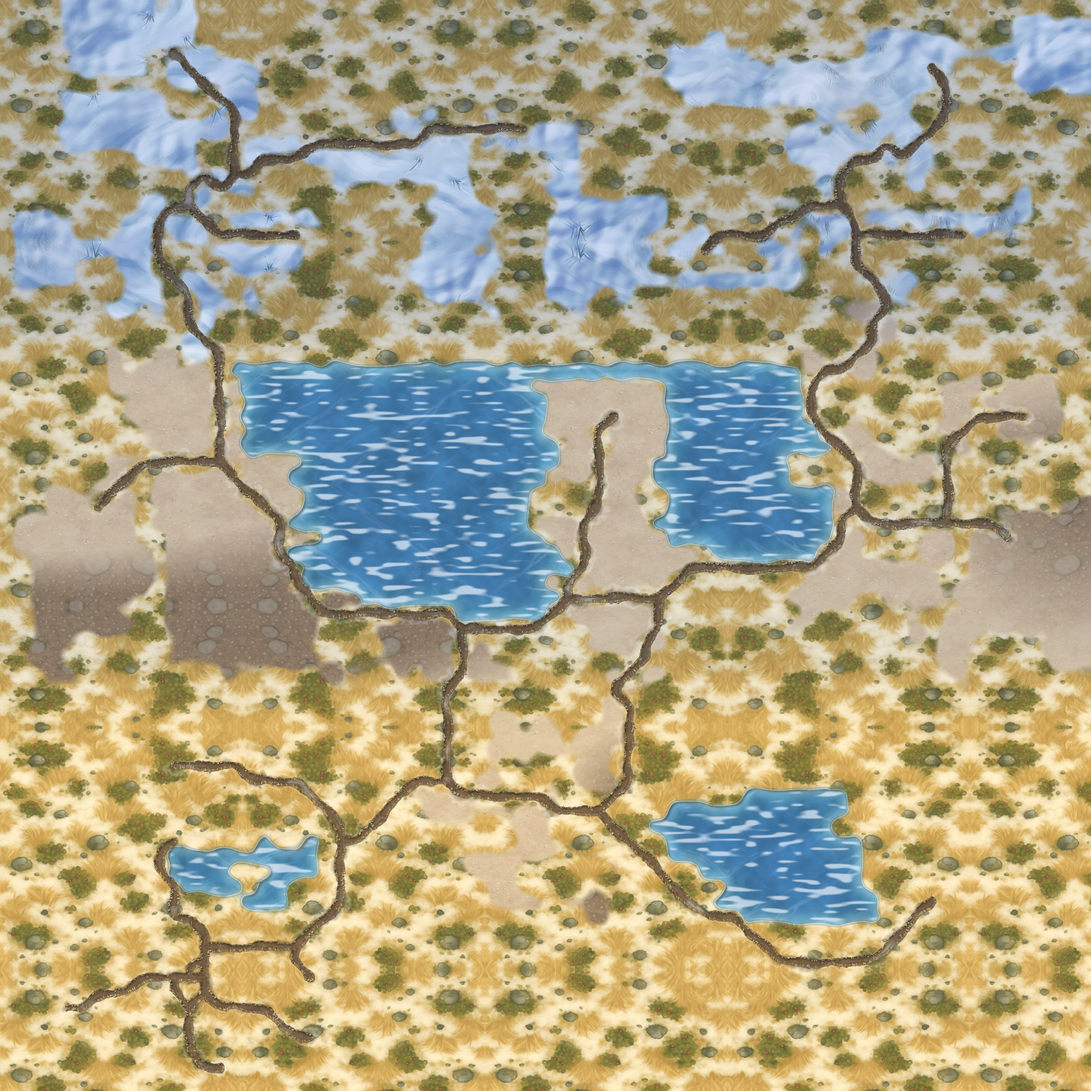
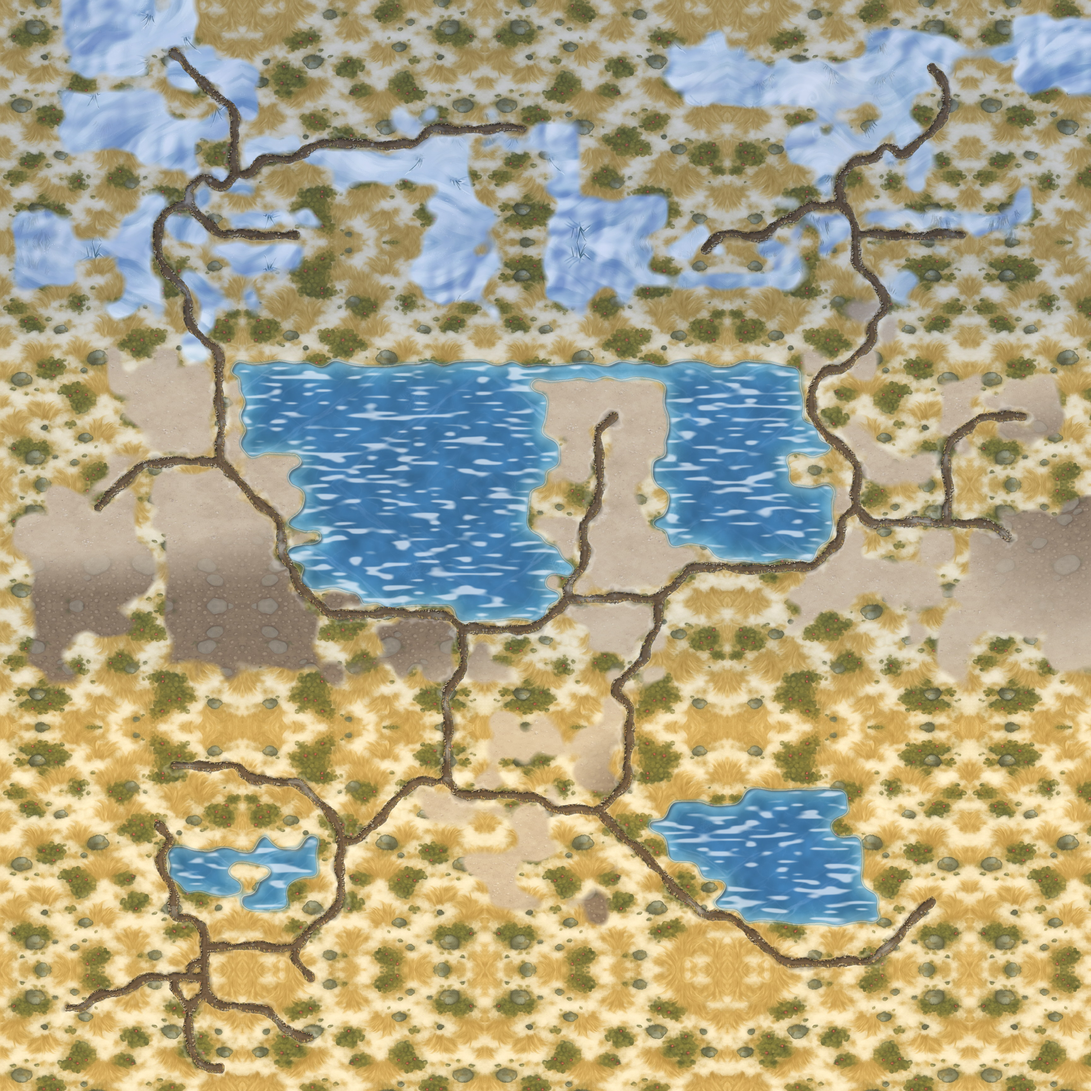
Twierdza: runda 8 planszy — stos przy stawie zamkowym, droga domknięta, węzeł tundry z jedną decyzją
Skrzynia (41,43) i kupka kul (42,36) na polanę przy stawie (8–9,54)
po losowaniu (losowanie jak w rundzie 7), droga do (10,54), źródło
(39,37) → (36,35). Węzeł (38–45,36–43) 7 → 4 obiekty, okno nad nim
21 → 19. 183 obiekty co 11,3 pola, pasy 19/40/47/46/31, bez bitwy
27 %. probe-misja OK.

Claude-Session: https://claude.ai/code/session_01BGiaZhgTwDgLbUxsH7vpi6

diff --git a/src/data/plansza-teren-twierdza.ts b/src/data/plansza-teren-twierdza.ts
@@ -63,7 +63,7 @@ export const TEREN = [
   'TTTTT...TTTTTTT.====.......===.jjTTTTTjjj=........TTTTTTTTTTTT...TTTTTTT',
   'TTTTTTTTTTTTTTTTTTTT=.....=jjj======j...=........~~~~~~~.TTTTT....TTTT..',
   'TTTT.................=...=..jjjjjjjj====....~~~~~~~~~~~~.TTTTTTT........',
-  'TTT...................=.=....TTT..jj....=..~~~~~~~~~~~~.................',
+  'TTT.......=...........=.=....TTT..jj....=..~~~~~~~~~~~~.................',
   'TTT........=.....~..~.==.....TTT..jjj....=..~~~~~~~~~~~~~...####........',
   'TTT..####.=~~~~~~~~~~.=..T....jjjjjj..TTTT=.~~~~~~~~~~~~~...#########...',
   'TTT..#####=~~~~TTT~~~.=..TTTT..jjj....TTj..=..~~~~~~~~~~~...#########...',
@@ -221,9 +221,8 @@ export const ROZSTAWIENIE: Array<{
   { x: 70, y: 39, rodzaj: 'budynek', strefa: 'pogranicze', budynek: 'portal' },
   { x: 59, y: 37, rodzaj: 'budynek', strefa: 'pogranicze', budynek: 'arena' },
   { x: 54, y: 38, rodzaj: 'budynek', strefa: 'pogranicze', budynek: 'ognisko' },
-  { x: 42, y: 36, rodzaj: 'surowiec', strefa: 'pogranicze', surowiec: 'pokeball' },
   { x: 42, y: 38, rodzaj: 'skrzynia', strefa: 'pogranicze' },
-  { x: 39, y: 37, rodzaj: 'budynek', strefa: 'pogranicze', budynek: 'zrodlo' },
+  { x: 36, y: 35, rodzaj: 'budynek', strefa: 'pogranicze', budynek: 'zrodlo' },
   { x: 59, y: 31, rodzaj: 'budynek', strefa: 'pogranicze', budynek: 'chatka' },
   { x: 26, y: 43, rodzaj: 'kopalnia', strefa: 'pogranicze', surowiec: 'odlamek' },
   { x: 15, y: 34, rodzaj: 'budynek', strefa: 'pogranicze', budynek: 'wiatrak' },
@@ -235,7 +234,6 @@ export const ROZSTAWIENIE: Array<{
   { x: 31, y: 42, rodzaj: 'skrzynia', strefa: 'pogranicze' },
   { x: 31, y: 43, rodzaj: 'surowiec', strefa: 'pogranicze', surowiec: 'jagoda' },
   { x: 40, y: 42, rodzaj: 'surowiec', strefa: 'pogranicze', surowiec: 'pokeball' },
-  { x: 41, y: 43, rodzaj: 'skrzynia', strefa: 'pogranicze' },
   { x: 68, y: 26, rodzaj: 'budynek', strefa: 'pogranicze', budynek: 'ognisko' },
   { x: 68, y: 28, rodzaj: 'surowiec', strefa: 'pogranicze', surowiec: 'odlamek' },
   { x: 69, y: 25, rodzaj: 'skrzynia', strefa: 'pogranicze' },
@@ -312,6 +310,8 @@ export const ROZSTAWIENIE: Array<{
   { x: 49, y: 66, rodzaj: 'budynek', strefa: 'dom', budynek: 'zrodlo' },
   { x: 54, y: 69, rodzaj: 'budynek', strefa: 'dom', budynek: 'woz' },
   { x: 71, y: 62, rodzaj: 'budynek', strefa: 'dom', budynek: 'chatka' },
+  { x: 8, y: 54, rodzaj: 'skrzynia', strefa: 'dom' },
+  { x: 9, y: 54, rodzaj: 'surowiec', strefa: 'dom', surowiec: 'pokeball' },
 ];
 
 /** Ustawienia misji na tej planszy — patrz `UstawieniaPlanszy` w `src/data/mapy.ts`. */

diff --git a/tools/mapy/twierdza.py b/tools/mapy/twierdza.py
@@ -857,6 +857,18 @@ DOLINA = [
     ([(47, 50), (47, 51)], ('surowiec', 'jagoda')),
 ]
 
+#: Runda 8 pętli (D1/F1): polana na zachód od stawu zamkowego (3–20,
+#: 53–55) była pusta, a droga brzegiem stawu urywała się na (11,55) — stos
+#: na jej końcu: skrzynia i kupka kul z węzła tundry (41,43)/(42,36).
+#: Skrzynię (41,43) zdejmuje się dopiero PO losowaniu: zdjęta wcześniej
+#: zmieniała okna nad przełęczami i losowe budowle doliny przetasowywały się
+#: (wóz (54,69) → źródło (70,68), pas 3 → 5, garb pasów znikał).
+PO_LOSOWANIU_ZDEJMIJ = [(41, 43)]
+DOLINA_PO_LOSOWANIU = [
+    ([(8, 54), (8, 53), (7, 54)], ('skrzynia', None)),
+    ([(9, 54), (9, 53), (9, 55)], ('surowiec', 'pokeball')),
+]
+
 #: Pętla 2026-10 (E5): brama zakątków SE i NE doliny. Trakt do kamiennej
 #: wieży wciska się między jezioro SE (47–57, 50–60) a pas boru (44–52,
 #: 61–63) przejściem szerokim na jedno pole (49,61)–(50,62); straż stoi na
@@ -917,11 +929,15 @@ TUNDRA = [
     ([(54, 38), (53, 38)], ('budynek', 'ognisko')),
     # Trakt wschodni (56,33 → 57,21) i zachodni brzeg jeziora-zapory:
     # skrzynia i kupki przy drodze, chatka na rozstajach odnogi.
-    ([(42, 36), (41, 36)], ('surowiec', 'pokeball')),
+    # (Runda 8 pętli, G1/F1: kupka kul (42,36) → polana przy stawie
+    # zamkowym (9,54) — węzeł tundry (38–45, 36–43) miał 7 rzeczy.)
     # Runda 5 pętli (E2): stos przed brodem od zachodu — środkowy pas
     # odległości, na luźnym ekranie (okna 21 × 18 nad brodem: 9–11).
     ([(42, 38), (41, 38)], ('skrzynia', None)),
-    ([(39, 37), (38, 37), (39, 38)], ('budynek', 'zrodlo')),
+    # Runda 8 pętli (G1): źródło z (39,37) za drogę (38,35), na zachodni
+    # brzeg wyspy — przy brodzie (45,37) zostaje jedna decyzja: skrzynia
+    # (42,38) i kopalnia (40,41).
+    ([(36, 35), (36, 34), (37, 34)], ('budynek', 'zrodlo')),
 
     # (Runda 6 pętli, G1: bez wiatraka (36,34) przed brodem.)
     ([(59, 31), (60, 31)], ('budynek', 'chatka')),
@@ -952,6 +968,9 @@ TUNDRA = [
     ([(31, 42), (31, 43)], ('skrzynia', None)),
     ([(31, 43), (29, 43)], ('surowiec', 'jagoda')),
     ([(40, 42), (39, 42)], ('surowiec', 'pokeball')),
+    # (Runda 8 pętli, G1/F1: skrzynia (41,43) stoi tu tylko na czas
+    # losowania i po nim idzie na polanę przy stawie zamkowym (8,54) —
+    # `PO_LOSOWANIU_ZDEJMIJ`.)
     ([(41, 43), (43, 42)], ('skrzynia', None)),
     # Polana za ranczem (x 66–69, y 25–28), koniec ślepej odnogi pod
     # średnią strażą w wejściu: ognisko, stos i skrzynia (z pasa za bramami
@@ -1470,6 +1489,12 @@ def rozstaw(g):
         'gniazdo', 'zrodlo', 'wiatrak', 'ognisko', 'woz', 'chatka',
     ])
     rozloz_nadmiar(g)
+    for pole in PO_LOSOWANIU_ZDEJMIJ:
+        wpis = next(co for q, co in g.obiekty if q == pole)
+        g.obiekty.remove((pole, wpis))
+        g.zajete = [q for q in g.zajete if q != pole]
+        g.blokada.difference_update([pole] + g.pola_bryly(wpis[0], wpis[1], pole))
+    postaw_recznie(g, DOLINA_PO_LOSOWANIU)
 
     # Runda 4 (HotA): spichlerz jagód (20, 60) i kopalnia odłamków (23, 60)
     # mają bryłę w rzędzie nad wejściem — w stawie. Na ekranie stały na
@@ -1520,6 +1545,7 @@ def rozstaw(g):
                  # do obozu łowców w zaułku.
                  (9, 64), (8, 65), (7, 65), (6, 65), (5, 66), (4, 66),
                  (11, 59), (11, 58), (10, 57), (10, 56), (11, 55),
+                 (10, 54),   # runda 8 pętli: do stosu (8–9, 54)
                  (12, 68), (12, 69), (13, 70), (14, 70),
                  # Runda 12: z zatoczki na polanę w borze.
                  (19, 68), (20, 68)]:

diff --git a/STAN.md b/STAN.md
@@ -1891,6 +1891,35 @@ w `tools/mapy/twierdza.py`:
   wroga ubrały pas 2, a wolne okna pasa 3 (międzyjezierze, wschodnia tundra)
   są pełne. Pogranicze tylko o 2 bogatsze od domu.
 
+Krytyk rundy 8 (`tools/blind/r8-twierdza-werdykt.md`): wygrana ślepo,
+27 TAK / 3 CZĘŚCIOWO / 0 NIE (D1 droga urwana na (11,55), F1 pusta polana
+przy stawie zamkowym (3–20,53–55), G1 węzeł tundry (38–45,36–43) 7 rzeczy,
+okno (27–47,33–50) 21). Runda 8 — chirurgiczna, tylko trzy zmiany
+z werdyktu, zmiany tylko w `tools/mapy/twierdza.py`:
+
+- **F1/G1**: skrzynia (41,43) → (8,54), kupka kul (42,36) → (9,54)
+  (`DOLINA_PO_LOSOWANIU`, strefa dom) — stos na polanie przy stawie
+  zamkowym. Skrzynia (41,43) stoi w `TUNDRA` do końca losowania i dopiero
+  potem jest zdejmowana (`PO_LOSOWANIU_ZDEJMIJ`): zdjęta wcześniej zmieniała
+  okna nad przełęczami, `luzne` przetasowywało 5 losowych budowli doliny
+  (wóz (54,69) → źródło (70,68)) i pasy wychodziły 19/40/46/46/32 — bez
+  garbu. Tak losowanie jest identyczne z rundą 7.
+- **D1**: droga `=` na (10,54) — ścieżka brzegiem stawu z (11,55) kończy
+  się przy stosie (8–9,54).
+- **G1**: źródło (39,37) → (36,35), za drogą (38,35) na zachodnim brzegu
+  wyspy; przy brodzie (45,37) zostają skrzynia (42,38) i kopalnia (40,41)
+  z kupką (40,42).
+- Liczby: 183 obiekty, co 11,3 pola (2069 przejezdnych); strefy dom 65 /
+  pogranicze 63 / wroga 55; pasy 19/40/47/46/31 (garb w pasie 3, pas 4 o 1
+  niżej); bez bitwy 27 % (551 pól); okna co 10 pól maks. 16, nadmiar 0;
+  węzeł (38–45,36–43) 7 → 4, okno (27–47,33–50) 21 → 19; T 27 % + # 22 %
+  bez zmian; straże 13 %. Sonda straży jak w rundzie 7 (17 dzieli teren,
+  przełęcze i bród parami). `probe-mapy` 0 ŹLE, `probe-misja` OK, tsc OK,
+  zrzut za pierwszym podejściem — stos przy stawie i źródło za drogą
+  widoczne.
+- Zostało: dom (65) jest teraz o 2 rzeczy bogatszy od pogranicza (63) —
+  odwrotnie niż chciała runda 3; pas 4 nadal tuż za pasem 3.
+
 ## Profile graczy i sloty zapisu (2026-09-26)
 
 Zgłoszenie taty Eli i Janka: „Nowa gra → Kampania" kontynuowała ostatnią
